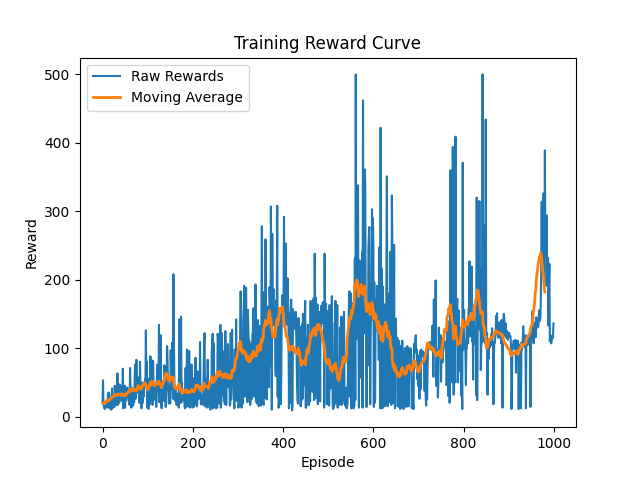
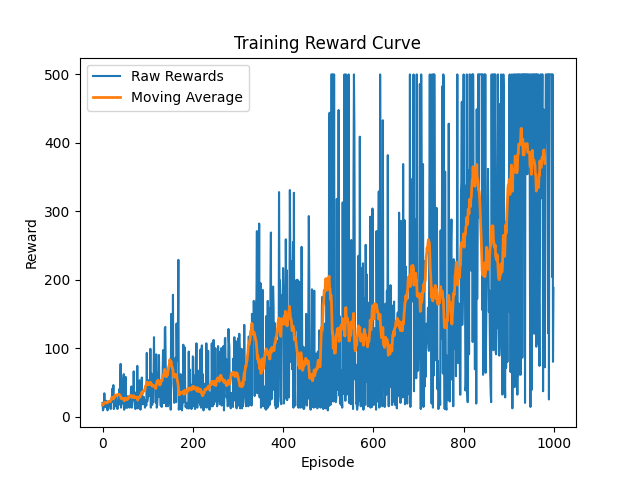
Implemented Double DQN with improved stability and performance

Changed region(s): [[0.1562, 0.125, 0.875, 0.875]]

diff --git a/train.py b/train.py
@@ -72,11 +72,11 @@ for episode in range(episodes):
             dones = torch.FloatTensor(dones)
 
             q_values = model(states)
+            
+            next_actions = torch.argmax(model(next_states), dim=1)         
             next_q_values = target_model(next_states)
-
+            next_q_value = next_q_values.gather(1, next_actions.unsqueeze(1)).squeeze(1)
             q_value = q_values.gather(1, actions.unsqueeze(1)).squeeze(1)
-            next_q_value = next_q_values.max(1)[0]
-
             expected_q = rewards_b + gamma * next_q_value * (1 - dones)
 
             loss = torch.nn.functional.mse_loss(q_value, expected_q.detach())
